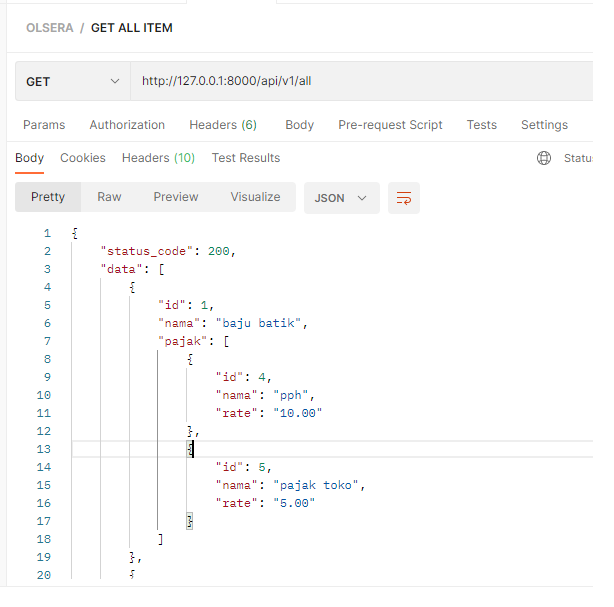
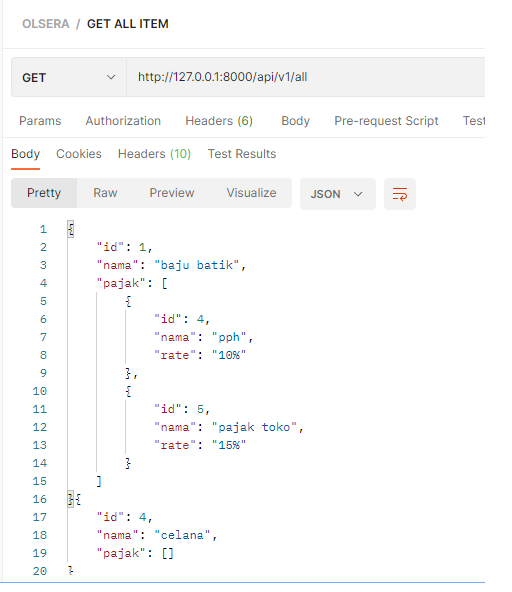
update get all item rate with percent

diff --git a/app/Http/Controllers/api/v1/AllController.php b/app/Http/Controllers/api/v1/AllController.php
@@ -11,11 +11,19 @@ class AllController extends Controller
 {
     public function index()
     {
-        $data = Item::with('pajak')->get();
+        $data = Item::with('pajak')->get()->map(function ($item) {
+            $item->pajak->map(function ($pajak) { 
+            $pajak->rate = ($pajak->rate /100*100)."%";
+                return $pajak;
+            });
 
-        return response()->json([
-            'status_code' => 200,
-            'data' => $data,
-        ], 200);
+            echo $item;
+            // return $item;
+
+            return response()->json([
+                'status_code' => 200,
+                'data' => $item,
+            ], 200);
+        });
     }
 }
